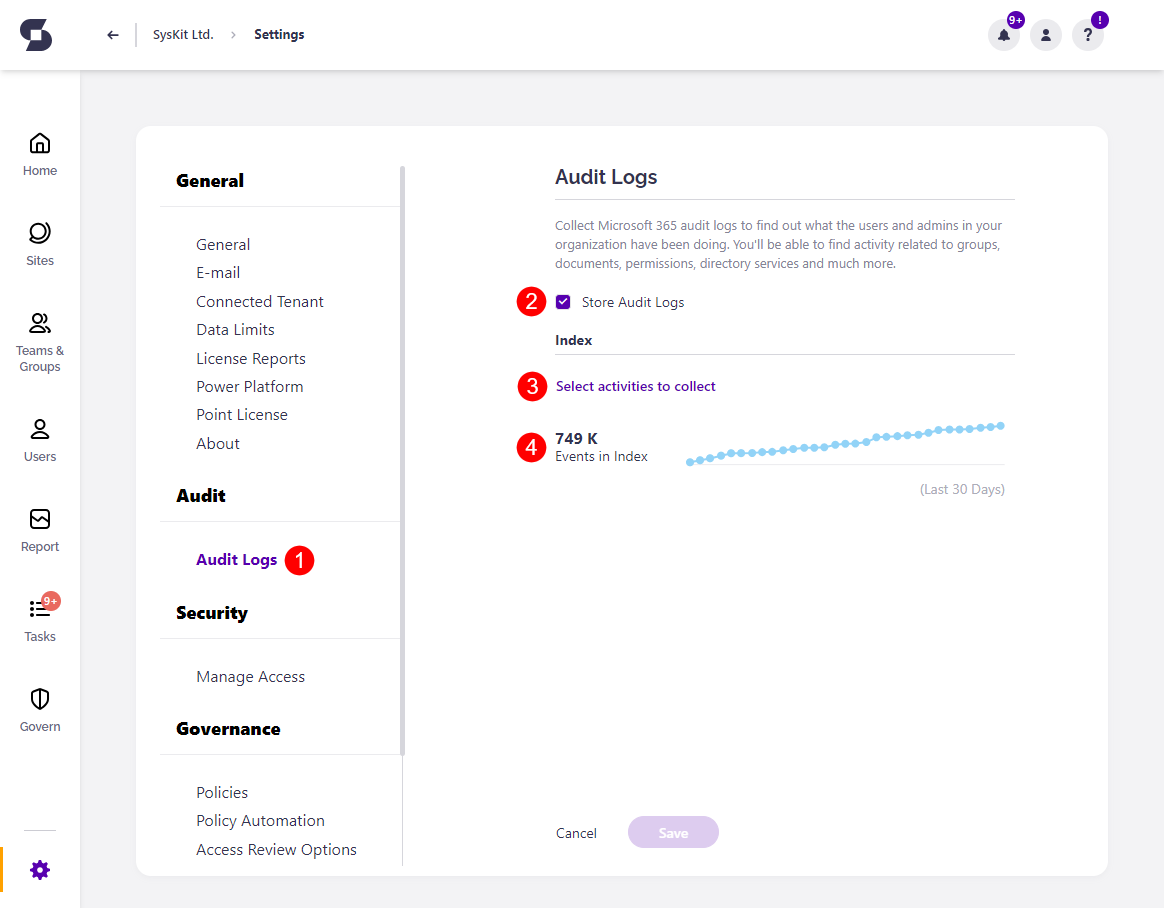
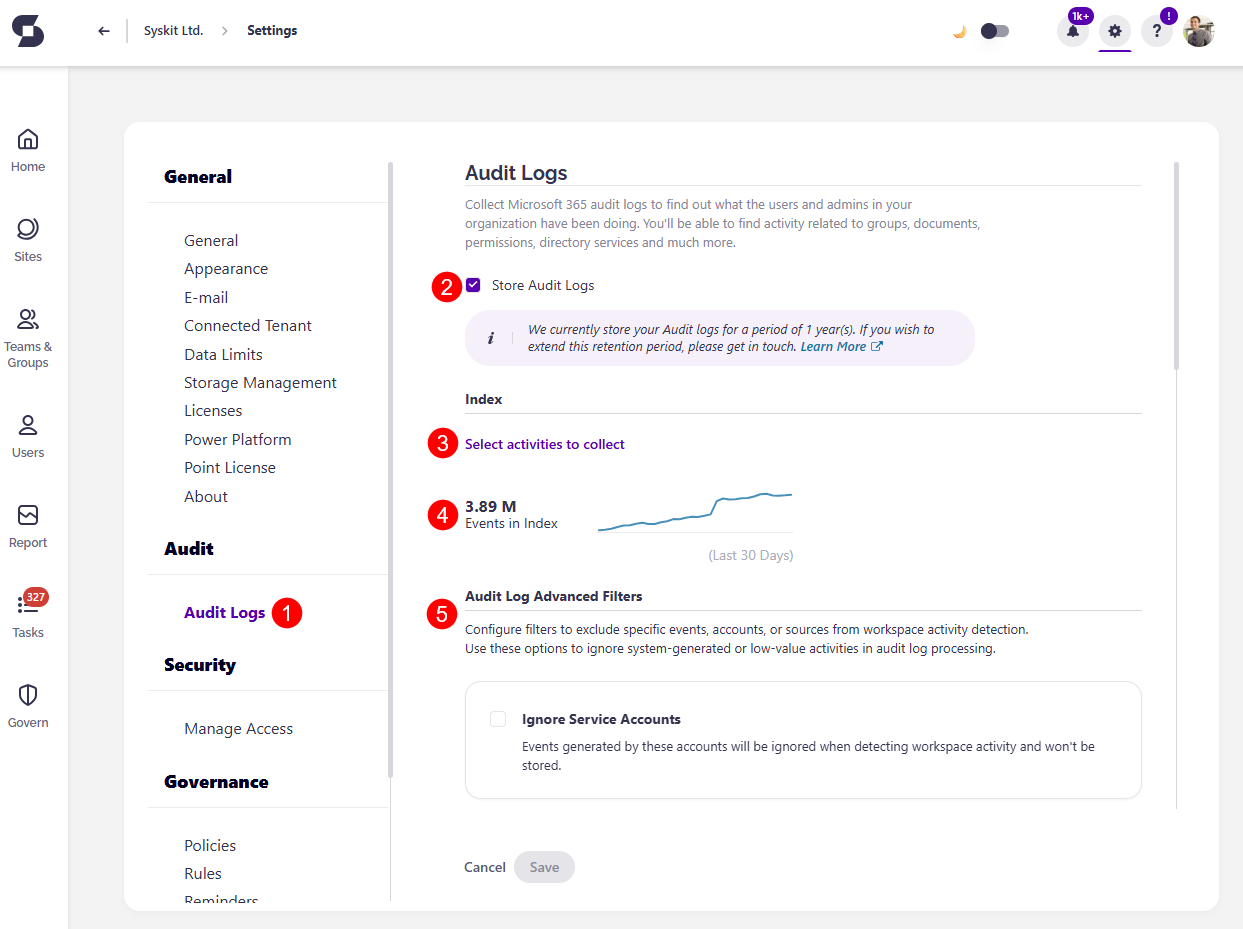
audit logs advanced filter

diff --git a/docs/configuration/customize-audit-logs-collection.md b/docs/configuration/customize-audit-logs-collection.md
@@ -8,16 +8,16 @@ description: This section describes how to customize the Audit Logs collection u
 **Audit Logs** are available in the Security & Compliance plan and higher tiers. See the [pricing page](https://www.syskit.com/products/point/pricing/) for more details.
 :::
 
-Audit logs can provide you with **insights into all activities** related to the user and administration activities in your Microsoft 365 environment. The Audit Logs contain information on activities within your organization related to **groups, documents, permissions, directory services, and much more**. 
+Audit logs provide **insights into all activities** related to users and administrative activities in your Microsoft 365 environment. The Audit Logs contain information about activities within your organization, including **groups, documents, permissions, directory services, and much more**.
 
-Users who are assigned the **Syskit Point Admin role** can configure activities that are going to be collected in these locations:
+Users who are assigned the **Syskit Point Admin role** can configure which activities will be collected in the following locations:
 
 * **Syskit Point Registration > Tenant settings**
 * **Audit Logs section in Settings**
 
 ## Syskit Point Registration > Tenant settings
 
-After registering **Syskit Point**, on the **Connect tenant** step, you have the following audit options at your disposal:
+After registering **Syskit Point**, during the **Connect tenant** step, the following audit options are available:
 
 * **Store audit logs \(1\)**
 * **Protect user privacy \(2\)**
@@ -31,7 +31,7 @@ You can change these settings by managing your tenant connection in Settings > G
 
 ### Store Audit Logs Option
 
-By default, the **Store audit logs** option is enabled, meaning that Syskit Point will process and store the audit logs to your **Azure Cosmos DB account**.
+By default, the **Store audit logs** option is enabled, which means Syskit Point will process and store audit logs in your **Azure Cosmos DB account**.
 
 :::info
 **Tip!**  
@@ -43,14 +43,14 @@ You can change the Audit Logs settings after the initial connection by managing 
 Turning this option on results in the following:
 
 * **User activity data**, such as file and permissions changes, **will be hidden and protected from Administrator supervision** 
-  * **User Activity report will be hidden from the Syskit Point user interface**
-  * **Access to the File and Page Activities report will be hidden**
-  * **Summary data in the Analytics & Usage tile will remain visible, but cannot be drilled to access data for a specific user**
-* **User activity** data will, however, be collected and stored
+  * **The User Activity report will be hidden from the Syskit Point user interface**
+  * **Access to the File and Page Activities reports will be hidden**
+  * **Summary data in the Analytics & Usage tile will remain visible, but you cannot drill down to view data for a specific user**
+* **User activity** data will, however, still be collected and stored
 
 :::warning
 **Please note!**  
-User activity data continues to be collected and stored to be readily available, if needed, in case of a security incident.
+User activity data continues to be collected and stored to be readily available if needed in the event of a security incident.
 :::
 
 The following rules apply regarding the User Privacy option:
@@ -71,25 +71,26 @@ The **Protect user privacy** option is disabled automatically if the **Store aud
 Audit log settings can also be configured after the initial configuration of **Syskit Point**. To do so:
 
 * Open the **Settings** screen
-* Navigate to the **Audit** &gt; **Audit Logs \(1\)** page
+* Navigate to the **Audit** > **Audit Logs (1)** page
 
 Here, you can:
 
-* **Turn the storage of Audit Logs on or off \(2\)**
-* **Select activities to collect \(3\)**
-* **View the number of events \(4\)** in the Audit Index
+* **Turn the storage of Audit Logs on or off (2)**
+* **Select activities to collect (3)**
+* **View the number of events (4)** in the Audit Index
+* **Configure Audit Log Advanced Filters (5)**
 
 ![Audit Logs Settings](../../static/img/customize-audit-logs-collection-settings-saas.png)
 
-Audit logs activities that are being collected can be found by clicking the **Select activities to collect \(3\)** link.
+Audit logs activities that are being collected can be found by clicking the **Select activities to collect (3)** link.
 
 A new dialog opens, showing all audit log categories and activities available in Syskit Point. Here you can:
 
-* Use the **Select All** option to enable the collection of all available activities **\(1\)**
-* **Adjust which audit log categories will be collected by clicking the checkbox \(2\)** next to a category
-* **Expand categories \(3\)**
-* **Mark only specific activities within a category to be collected \(4\)**
-* **Confirm your changes** by clicking the **OK button \(5\)** and **Save** button on the **Audit Logs** screen.
+* Use the **Select All** option to enable the collection of all available activities **(1)**
+* **Adjust which audit log categories will be collected by clicking the checkbox (2)** next to a category
+* **Expand categories (3)**
+* **Mark only specific activities within a category to be collected (4)**
+* **Confirm your changes** by clicking the **OK button (5)** and **Save** button on the **Audit Logs** screen.
 
 ![Select activities to collect screen](../../static/img/customize-audit-logs-collection-select-activities-to-collect.png)
 
@@ -123,13 +124,49 @@ Available audit log categories:
 * **User administration activities**
 * **Viva Engage activities**
 
+### Audit Log Advanced Filters
+
+The Audit Log Advanced Filters allow you to **exclude specific events, accounts, or sources from workspace activity detection**. 
+
+You can use these options to **ignore system-generated or low-value activities in audit log processing**.
+
+The following options are available: 
+* **Ignore Service Accounts** - events generated by these accounts will be ignored when detecting workspace activity and won't be stored
+* **Ignore OneDrive Synchronization Activities** - events related to OneDrive synchronization activities will be ignored when detecting workspace activity and won't be stored
+* **Ignore User Agents** - events generated by these user agents will be ignored when detecting workspace activity and won't be stored
+* **Ignore Workloads** - events from these workloads will be ignored when detecting workspace activity and won't be stored
+* **Ignore Record Types** - events matching these record types will be ignored when detecting workspace activity and won't be stored
+* **Ignore Sites** - events associated with these sites will be ignored when detecting workspace activity and won't be stored
+* **Ignore Service Principal IDs (AnyEvent)** - events generated by these service principals (any event type) will be ignored when detecting workspace activity and won't be stored
+* **Ignore Service Principal IDs (AppOnlyEvent)** - app-only events generated by these service principals will be ignored when detecting workspace activity and won't be stored
+* **Ignore Service Principal Names (AnyEvent)** - events generated by these service principals (any event type) will be ignored when detecting workspace activity and won't be stored
+* **Define Criteria Collection** - define the set of conditions used to filter or match audit log events
+
+To exclude specific events, accounts, or sources:
+
+* **Select the checkbox (1)** next to the option you want to ignore
+  * Selecting the checkbox excludes this option from workspace activity detection
+* Once selected, **you are asked to enter (2)** the following information:
+  * For Ignore Service Accounts, **enter the service account names**
+  * For Ignore OneDrive Synchronization Activities, **no additional information is needed**
+  * For Ignore User Agents, **enter user agents names**
+  * For Ignore Workloads, **by default Endpoint is added**
+  * For Ignore Record Types, **by default DLPEndpoint is added**
+  * For Ignore Sites, **enter the names of Microsoft Teams, SharePoint Sitesm, Viva Engage Communities or Microsoft 365 Groups**
+  * For Ignore Service Principal IDs (AnyEvent), **enter service principal IDs**
+  * Ignore Service Principal IDs (AppOnlyEvent), **enter service principal IDs**
+  * Ignore Service Principal Names (AnyEvent), **enter service principal names**
+  * For Define Criteria Collection, **paste your JSON file**
+
+![Audit Log Advanced Filters](../../static/img/customize-audit-logs-collection-advanced-filters.png)
+
 ## Data Retention
 
 ### Point Cloud
 
 **By default, audit logs data retention is set to 1 year in Syskit Point Cloud**. 
 
-You can purchase additional years of audit logs storage by contacting our Sales team. [Contact us](https://www.syskit.com/contact-us/)
+You can purchase additional years of audit log storage by contacting our Sales team. [Contact us](https://www.syskit.com/contact-us/)
 
 To find the information on how long the Audit logs are stored for you:
 * Navigate to **Settings** > **Audit** > **Audit Logs**
@@ -195,7 +232,7 @@ Syskit Point collects unified audit logs, which contain a subset of said logs re
 ### Frequency of Audit Log Collection
 
 Syskit Point checks for and collects new audit logs every 15 minutes. 
-Note that it can take up to 24 hours after an event occurs for the corresponding audit log record to be returned in the results of an audit log search. 
+Note that it can take up to 24 hours after an event occurs for the corresponding audit log record to appear in the results of an audit log search. 
 
 ### Unified Audit Logs
 
